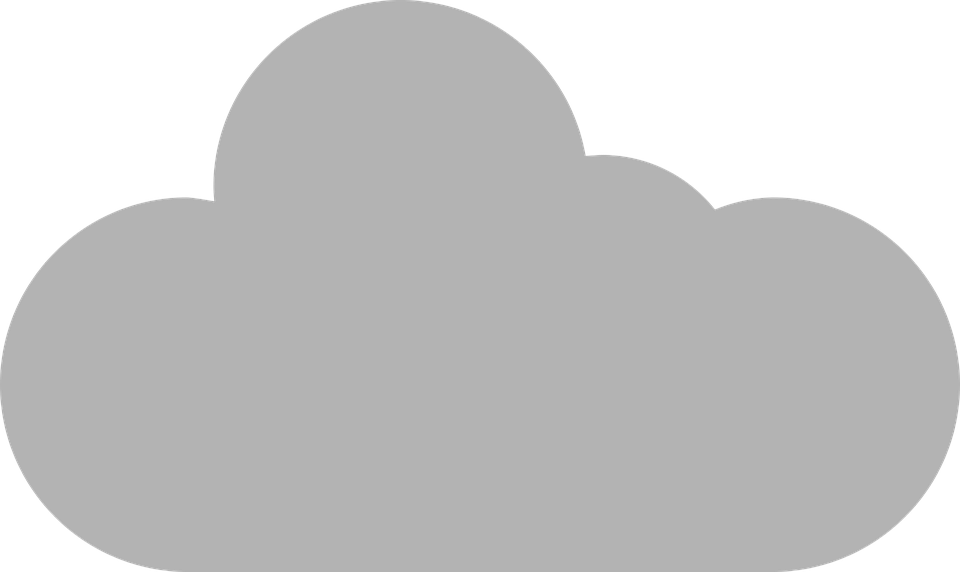
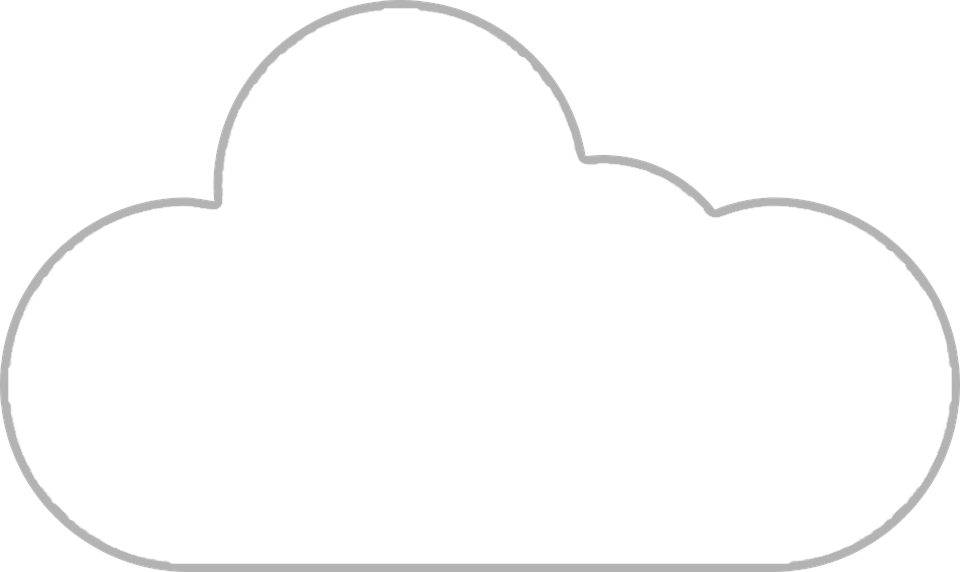
unsatisfactory commit messages result in dissatisfaction

diff --git a/project/flask/front-end/src/components/Request.vue b/project/flask/front-end/src/components/Request.vue
@@ -1,6 +1,9 @@
 <template>
   <div class="request">
-    BefusedBequest
+    <div id="cloud-img-wrapper">
+      <img id="cloud-img" src="../assets/cloud.png">
+      <h3><i-count-up :start="0" :end="num_images" :duration="3.5"></i-count-up> images retrieved from <span class="bold-italics">the cloud.</span></h3>
+    </div>
   </div>
 </template>
 
@@ -9,13 +12,18 @@
 import _ from 'lodash'
 import axios from 'axios'
 */
+import ICountUp from 'vue-countup-v2'
 export default {
   name: 'search',
+  props: ['query'],
+  components: { ICountUp },
   data () {
     return {
-      query: '',
-      options: []
+      query: this.query,
+      num_images: 0
     }
+  },
+  methods: {
   }
 }
 </script>
@@ -27,10 +35,28 @@ export default {
   justify-content: space-around;
 }
 
-h1 {
-  font-size: 10em;
-  margin-bottom: 20px;
-  margin-top: 0;
+#cloud-img-wrapper {
+ height: 350px;
+ width: 503px;
+ padding-top: 50px;
+ position: relative;
+}
+
+#cloud-img {
+  height: 300px;
+}
+
+h3 {
+  position: absolute;
+  top: 245px;
+  text-align: center;
+  left: 0;
+  margin: 0 auto;
+  width: 100%;
+}
+
+.bold-italics {
+  font-style: italic;
 }
 
 .request-inner {

diff --git a/project/flask/front-end/src/router/index.js b/project/flask/front-end/src/router/index.js
@@ -14,9 +14,10 @@ export default new Router({
       component: Search
     },
     {
-      path: '/cloud',
+      path: '/cloud/:query',
       name: 'Cloud',
-      component: Request
+      component: Request,
+      props: true
     }
   ]
 })

diff --git a/project/flask/front-end/src/App.vue b/project/flask/front-end/src/App.vue
@@ -27,6 +27,6 @@ html, body {
   height: 100%;
   display: flex;
   justify-content: space-around;
-  background: radial-gradient(white 50%, #CCCCCC);
+  background: radial-gradient(white 50%, #DDD);
 }
 </style>

diff --git a/project/flask/server.py b/project/flask/server.py
@@ -1,14 +1,54 @@
 import json
+from tempfile import TemporaryDirectory
 from flask import Flask, Response, jsonify
 from valid_words import word_list
+from imagyn.collections.lexicon import SynsetLexicon #get wnid
+from imagyn.collections.downloader import Downloader #get images
 app = Flask(__name__)
 
+"""
+init imagyn stuff
+"""
+lex = SynsetLexicon()
+dwn = Downloader()
+
+"""
+list of references to temporary directories
+"""
+
+tempdirs = {}
+
+"""
+Autocompletes searched words
+"""
 @app.route('/api/suggestions/<input_fragment>')
 def suggest_words(input_fragment):
     suggestions = [word for word in word_list if word[0:len(input_fragment)] == input_fragment]
     if len(suggestions) > 10:
         suggestions = suggestions[0:10]
     response = Response(json.dumps(suggestions), mimetype='application/json')
+    response.headers.add('Access-Control-Allow-Origin', '*')
+    return response
+
+"""
+downloads images to temporary directory
+"""
+
+@app.route('/api/download/<searchterm>')
+def get_temp_key(searchterm):
+    td = TemporaryDirectory()
+    tempdirs[td.name] = td
+    sco = lex.get_synset(searchterm)
+    wnid = lex.get_synset_id(sco)
+    other_wnid = lex.get_unrelated_synsets(sco)
+    urllist = lex.API.urlsfor(wnid)
+    other_urls = []
+    for ownid in other_wnid:
+        other_urls += lex.API.urlsfor(ownid)
+    img_list = dwn.multidownload(urllist, td.name+'/'+searchterm, 'img_')
+    dwn.multidownload(other_urls, td.name+'/not_'+searchterm, 'img_')
+    responseobj = {'dirname':td.name, 'num_images':num_images}
+    response = Response(json.dumps(responseobj), mimetype='application/json')
     response.headers.add('Access-Control-Allow-Origin', '*')
     return response
 
